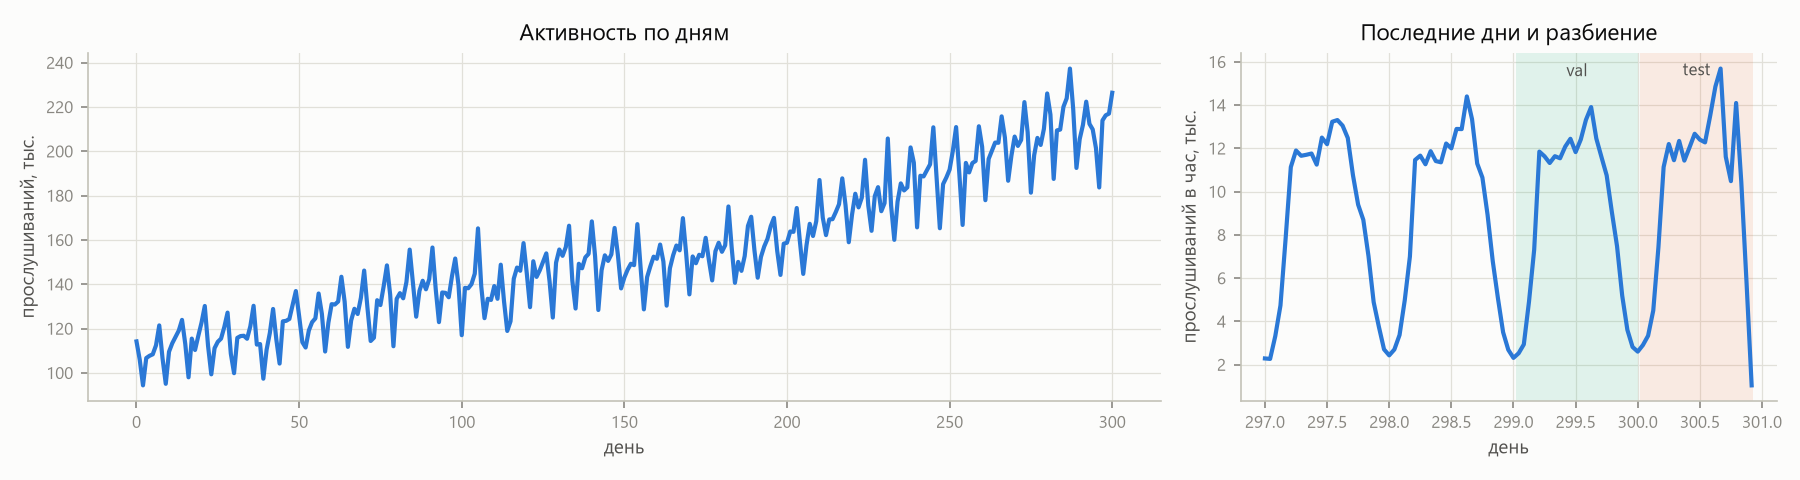
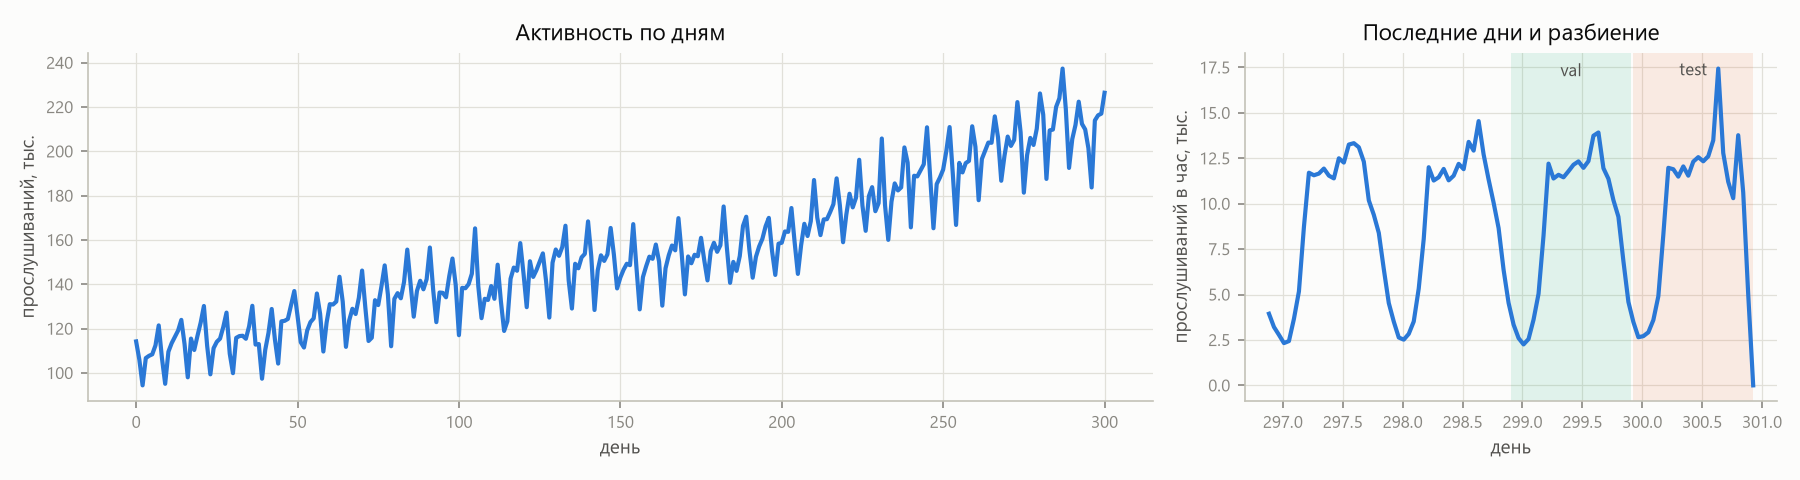
Align temporal split with the Yambda benchmark code
Test is the last 24 h of data, validation the day before, 30 min gaps, as in benchmarks/yambda/constants.py. Feedback matching moved into the data module; EDA numbers refreshed.

diff --git a/src/seqrec_rl/data.py b/src/seqrec_rl/data.py
@@ -1,37 +1,49 @@
+import warnings
 from dataclasses import dataclass
 from pathlib import Path
 
+import numpy as np
 import polars as pl
 
 # Yambda timestamps are seconds from the dataset start, rounded to 5 s
 MINUTE = 60
 HOUR = 60 * MINUTE
 DAY = 24 * HOUR
+LAST_TIMESTAMP = 26_000_000
 
 # "Listen+" threshold from the Yambda benchmark
 LISTEN_PLUS_PCT = 50
 SESSION_GAP = 30 * MINUTE
+
+# a like/dislike counts for a listen if it comes within track length + this margin
+FEEDBACK_MARGIN_SEC = 60
+
+PAD, OOV = 0, 1
+N_SPECIAL = 2
 
 
 def load_events(path: str | Path) -> pl.DataFrame:
     df = pl.read_parquet(path)
     if df.schema["event_type"] != pl.Categorical:
         df = df.with_columns(pl.col("event_type").cast(pl.Utf8).cast(pl.Categorical))
-    return df
+    return df.with_columns(pl.col("timestamp").cast(pl.Int32))
 
 
 def listens(events: pl.DataFrame) -> pl.DataFrame:
-    return events.filter(pl.col("event_type") == "listen").drop("event_type")
+    return (events.filter(pl.col("event_type") == "listen").drop("event_type")
+            .with_columns(pl.col("played_ratio_pct").cast(pl.Int32),
+                          pl.col("track_length_seconds").cast(pl.Int32))
+            .sort("uid", "timestamp"))
 
 
 @dataclass(frozen=True)
 class TemporalSplit:
     """Global temporal split: train | gap | val | gap | test.
 
-    Defaults follow the Yambda benchmark (test starts 30 min after day 300 and
-    runs to the end of the data, ~22 h); validation is the last day of the
-    benchmark's training period. Model state is frozen at the start of each
-    evaluation window, so events inside a gap are neither history nor targets.
+    Boundaries match the Yambda benchmark code: test is the last 24 h of the
+    data, validation is the preceding day, 30 min gaps in between. Model state
+    is frozen at the start of each evaluation window, so events inside a gap
+    are neither history nor targets.
     """
 
     train_end: int
@@ -40,10 +52,11 @@ class TemporalSplit:
     test_start: int
 
     @classmethod
-    def default(cls, train_days: int = 299, val_days: int = 1, gap: int = SESSION_GAP) -> "TemporalSplit":
-        train_end = train_days * DAY
-        val_end = train_end + val_days * DAY
-        return cls(train_end, train_end + gap, val_end, val_end + gap)
+    def default(cls, test_days: int = 1, val_days: int = 1, gap: int = SESSION_GAP) -> "TemporalSplit":
+        test_start = LAST_TIMESTAMP - test_days * DAY
+        val_end = test_start - gap
+        val_start = val_end - val_days * DAY
+        return cls(val_start - gap, val_start, val_end, test_start)
 
     def train(self, df: pl.DataFrame) -> pl.DataFrame:
         return df.filter(pl.col("timestamp") < self.train_end)
@@ -54,8 +67,62 @@ class TemporalSplit:
     def test(self, df: pl.DataFrame) -> pl.DataFrame:
         return df.filter(pl.col("timestamp") >= self.test_start)
 
-    def history_for_val(self, df: pl.DataFrame) -> pl.DataFrame:
-        return self.train(df)
+    def window(self, df: pl.DataFrame, part: str) -> pl.DataFrame:
+        return self.val(df) if part == "val" else self.test(df)
 
-    def history_for_test(self, df: pl.DataFrame) -> pl.DataFrame:
-        return df.filter(pl.col("timestamp") < self.val_end)
+    def history(self, df: pl.DataFrame, part: str) -> pl.DataFrame:
+        cutoff = self.train_end if part == "val" else self.val_end
+        return df.filter(pl.col("timestamp") < cutoff)
+
+
+def match_feedback(lis: pl.DataFrame, events: pl.DataFrame, kind: str) -> pl.DataFrame:
+    """Match each like/dislike to the latest listen of the same track at or before it."""
+    fb = (events.filter(pl.col("event_type") == kind)
+          .select("uid", "item_id", pl.col("timestamp").alias("fb_ts"))
+          .sort("fb_ts"))
+    right = lis.select("uid", "item_id", "timestamp", "track_length_seconds").sort("timestamp")
+    with warnings.catch_warnings():
+        # both sides are sorted by time globally, which is what join_asof needs
+        warnings.filterwarnings("ignore", message="Sortedness of columns")
+        m = fb.join_asof(right, left_on="fb_ts", right_on="timestamp", by=["uid", "item_id"],
+                         strategy="backward")
+    return m.with_columns(delay_sec=pl.col("fb_ts") - pl.col("timestamp"))
+
+
+def flag_listens(lis: pl.DataFrame, matched: pl.DataFrame, name: str) -> pl.DataFrame:
+    hits = (matched.filter(pl.col("timestamp").is_not_null()
+                           & (pl.col("delay_sec") <= pl.col("track_length_seconds") + FEEDBACK_MARGIN_SEC))
+            .select("uid", "item_id", "timestamp").unique()
+            .with_columns(pl.lit(True).alias(name)))
+    return (lis.join(hits, on=["uid", "item_id", "timestamp"], how="left", maintain_order="left")
+            .with_columns(pl.col(name).fill_null(False)))
+
+
+def attach_feedback(lis: pl.DataFrame, events: pl.DataFrame) -> pl.DataFrame:
+    lis = flag_listens(lis, match_feedback(lis, events, "like"), "liked")
+    return flag_listens(lis, match_feedback(lis, events, "dislike"), "disliked")
+
+
+def build_vocab(train_lis: pl.DataFrame, min_count: int) -> pl.DataFrame:
+    """Tokens N_SPECIAL.. are assigned to tracks by decreasing train popularity."""
+    counts = (train_lis.group_by("item_id")
+              .agg(train_count=pl.len(), track_length_seconds=pl.col("track_length_seconds").first())
+              .filter(pl.col("train_count") >= min_count)
+              .sort("train_count", "item_id", descending=[True, False]))
+    return counts.with_columns(token=pl.int_range(N_SPECIAL, N_SPECIAL + counts.height, dtype=pl.Int32))
+
+
+def tokenize(df: pl.DataFrame, vocab: pl.DataFrame) -> pl.DataFrame:
+    return (df.join(vocab.select("item_id", "token"), on="item_id", how="left", maintain_order="left")
+            .with_columns(pl.col("token").fill_null(OOV)))
+
+
+def user_sequences(df: pl.DataFrame, col: str = "token") -> tuple[np.ndarray, np.ndarray, np.ndarray]:
+    """Concatenated per-user sequences: (uids, offsets, values), user i owns values[offsets[i]:offsets[i+1]].
+
+    Expects df sorted by (uid, timestamp).
+    """
+    lens = df.group_by("uid", maintain_order=True).len()
+    offsets = np.zeros(lens.height + 1, dtype=np.int64)
+    offsets[1:] = np.cumsum(lens["len"].to_numpy())
+    return lens["uid"].to_numpy(), offsets, df[col].to_numpy()

diff --git a/scripts/eda.py b/scripts/eda.py
@@ -4,7 +4,6 @@ Writes figures to reports/figures and all numbers to reports/eda_stats.json.
 """
 import argparse
 import json
-import warnings
 from pathlib import Path
 
 import matplotlib.pyplot as plt
@@ -13,7 +12,8 @@ import polars as pl
 from matplotlib.ticker import PercentFormatter
 
 from seqrec_rl import plotting
-from seqrec_rl.data import DAY, LISTEN_PLUS_PCT, SESSION_GAP, TemporalSplit, listens, load_events
+from seqrec_rl.data import (DAY, FEEDBACK_MARGIN_SEC, LISTEN_PLUS_PCT, SESSION_GAP, TemporalSplit,
+                            flag_listens, listens, load_events, match_feedback)
 
 LENGTH_EDGES = [0, 120, 150, 180, 210, 240, 300, 420, 600, 10**7]
 LENGTH_LABELS = ["<2", "2-2.5", "2.5-3", "3-3.5", "3.5-4", "4-5", "5-7", "7-10", ">10"]
@@ -38,25 +38,11 @@ def with_labels(t: pl.DataFrame, col: str, labels: list) -> pl.DataFrame:
     return t.with_columns(pl.Series(col, [labels[i] for i in t[col]]))
 
 
-def match_feedback(lis: pl.DataFrame, events: pl.DataFrame, kind: str) -> pl.DataFrame:
-    """Match each like/dislike to the latest listen of the same track at or before it."""
-    fb = (events.filter(pl.col("event_type") == kind)
-          .select("uid", "item_id", pl.col("timestamp").alias("fb_ts"))
-          .sort("fb_ts"))
-    right = lis.select("uid", "item_id", "timestamp", "track_length_seconds").sort("timestamp")
-    with warnings.catch_warnings():
-        # both sides are sorted by time globally, which is what join_asof needs
-        warnings.filterwarnings("ignore", message="Sortedness of columns")
-        m = fb.join_asof(right, left_on="fb_ts", right_on="timestamp", by=["uid", "item_id"],
-                         strategy="backward")
-    return m.with_columns(delay_sec=pl.col("fb_ts") - pl.col("timestamp"))
-
-
 def feedback_delay_stats(m: pl.DataFrame) -> dict:
     n = m.height
     matched = m.filter(pl.col("timestamp").is_not_null())
     d = matched["delay_sec"]
-    within_track = (matched["delay_sec"] <= matched["track_length_seconds"] + 60).sum()
+    within_track = (matched["delay_sec"] <= matched["track_length_seconds"] + FEEDBACK_MARGIN_SEC).sum()
     return {
         "n": n,
         "share_without_prior_listen": 1 - matched.height / n,
@@ -64,15 +50,6 @@ def feedback_delay_stats(m: pl.DataFrame) -> dict:
         "share_within_1h": (d <= 3600).sum() / n,
         "delay_sec": quantiles(d.cast(pl.Float64)),
     }
-
-
-def flag_listens(lis: pl.DataFrame, m: pl.DataFrame, name: str) -> pl.DataFrame:
-    hits = (m.filter(pl.col("timestamp").is_not_null()
-                     & (pl.col("delay_sec") <= pl.col("track_length_seconds") + 60))
-            .select("uid", "item_id", "timestamp").unique()
-            .with_columns(pl.lit(True).alias(name)))
-    return (lis.join(hits, on=["uid", "item_id", "timestamp"], how="left")
-            .with_columns(pl.col(name).fill_null(False)))
 
 
 def plot_daily(lis: pl.DataFrame, split: TemporalSplit, out: Path) -> None:
@@ -269,7 +246,6 @@ def main() -> None:
     plotting.setup()
 
     events = load_events(Path(args.data) / "multi_event.parquet")
-    events = events.with_columns(pl.col("timestamp").cast(pl.Int32))
     split = TemporalSplit.default()
     stats = {
         "schema": {k: str(v) for k, v in events.schema.items()},
@@ -280,10 +256,7 @@ def main() -> None:
         "n_items": events["item_id"].n_unique(),
     }
 
-    lis = (listens(events)
-           .with_columns(pl.col("played_ratio_pct").cast(pl.Int32),
-                         pl.col("track_length_seconds").cast(pl.Int32))
-           .sort("uid", "timestamp"))
+    lis = listens(events)
     stats["n_listens"] = lis.height
     stats["n_listened_items"] = lis["item_id"].n_unique()
     stats["played_ratio"] = {
@@ -348,7 +321,7 @@ def main() -> None:
     targets = (test_lis.filter(pl.col("played_ratio_pct") >= LISTEN_PLUS_PCT)
                .join(first_seen, on=["uid", "item_id"])
                .with_columns(seen=pl.col("first_ts") < split.val_end))
-    hist_users = split.history_for_test(lis)["uid"].unique()
+    hist_users = split.history(lis, "test")["uid"].unique()
     stats["test"] = {
         "n_listens": test_lis.height,
         "n_users_with_listens": test_lis["uid"].n_unique(),

diff --git a/reports/eda.md b/reports/eda.md
@@ -21,25 +21,29 @@ Yambda-50M, файл `flat/50m/multi_event.parquet`:
 ## Разбиение по времени
 
 ```
-train [0, 299 д) | 30 мин | val [299 д + 30 мин, 300 д) | 30 мин | test [300 д + 30 мин, конец ≈ 300.93 д)
+train [0, 25 823 600) | 30 мин | val [25 825 400, 25 911 800) | 30 мин | test [25 913 600, 26 000 000]
+      (≈ 298.9 дня)                  (24 ч)                              (последние 24 ч)
 ```
 
-- Тест совпадает с тестом бенчмарка Yambda: начинается через 30 минут после 300-го дня и идёт до конца данных, около 22 часов. Валидация — последний день обучающего периода бенчмарка.
-- Модели учатся на `train` и замораживаются. В тесте история пользователя — все события до 300-го дня, включая валидацию. События внутри зазоров не используются ни как история, ни как таргеты.
+- Границы взяты из кода бенчмарка Yambda (`benchmarks/yambda/constants.py`, `timesplit.py`):
+  - тест — последние 24 часа данных;
+  - валидация — сутки перед ним;
+  - между частями зазоры по 30 минут.
+- Модели учатся на `train` и замораживаются. На валидации история — `train`. На тесте история — всё до начала зазора перед тестом, включая валидацию. События внутри зазоров не используются ни как история, ни как таргеты.
 - Для RL используются только контексты из `train`.
 
 | | val | test |
 |---|---|---|
-| прослушиваний | 215 884 | 225 140 |
-| пользователей с прослушиваниями | 4 837 | 4 759 |
-| таргеты Listen+ (≥ 50 % трека) | — | 152 899 у 4 550 пользователей (медиана 18 на пользователя) |
-| лайков | — | 4 139 |
+| прослушиваний | 217 014 | 232 049 |
+| пользователей с прослушиваниями | 4 849 | 4 812 |
+| таргеты Listen+ (≥ 50 % трека) | — | 157 696 у 4 600 пользователей (медиана 18 на пользователя) |
+| лайков | — | 4 279 |
 
 Холодных пользователей в тесте нет. **70.6 % тестовых таргетов — треки, которые пользователь уже слушал раньше.** Поэтому метрики релевантности будем считать в двух вариантах: по всем таргетам и только по новым трекам.
 
 ![](figures/daily_activity.png)
 
-Активность за период выросла почти вдвое: со ~115 до ~220 тысяч прослушиваний в день. Видны недельная и суточная сезонность. Тест — неполные сутки, в основном дневные часы, а распределение пользователей и треков в нём сдвинуто относительно начала периода. Поэтому разбиение по времени, а не случайное, здесь обязательно.
+Активность за период выросла почти вдвое: со ~115 до ~220 тысяч прослушиваний в день. Видны недельная и суточная сезонность. Тест — одни сутки в конце периода, и распределение пользователей и треков в нём сдвинуто относительно начала. Поэтому разбиение по времени, а не случайное, здесь обязательно.
 
 ## Отклик: доля дослушивания
 
@@ -123,12 +127,12 @@ train [0, 299 д) | 30 мин | val [299 д + 30 мин, 300 д) | 30 мин | t
 
 | мин. прослушиваний в train | треков | покрытие прослушиваний train | покрытие таргетов test | покрытие новых таргетов test |
 |---|---|---|---|---|
-| 1 | 872 953 | 100 % | 98.9 % | 96.8 % |
-| 5 | 351 388 | 98.1 % | 94.3 % | 83.8 % |
-| 10 | 248 986 | 96.6 % | 92.6 % | 81.1 % |
-| 20 | 172 415 | 94.3 % | 90.0 % | 77.5 % |
-| 50 | 100 425 | 89.5 % | 84.8 % | 70.4 % |
-| 100 | 63 662 | 83.8 % | 79.0 % | 62.8 % |
+| 1 | 872 861 | 100 % | 98.9 % | 96.7 % |
+| 5 | 351 352 | 98.1 % | 94.3 % | 84.1 % |
+| 10 | 248 945 | 96.6 % | 92.6 % | 81.4 % |
+| 20 | 172 375 | 94.3 % | 90.1 % | 77.7 % |
+| 50 | 100 415 | 89.5 % | 84.8 % | 70.6 % |
+| 100 | 63 650 | 83.8 % | 79.0 % | 63.0 % |
 
 Полный словарь из 873 тысяч треков с softmax на 8 ГБ GPU не помещается. Варианты — порог 20 (172 тысячи токенов) или 50 (100 тысяч). Порог 50 теряет 30 % новых таргетов, но для RL-экспериментов удобнее: награду считаем точным ожиданием по всему словарю на каждом шаге. Таргеты вне словаря в метриках остаются промахами для всех моделей, так что сравнение честное. Окончательный порог выберу на этапе 1 по памяти и скорости. Редкие треки в истории заменяются одним OOV-токеном, чтобы не ломать временную структуру.
 
